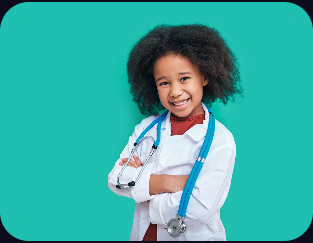
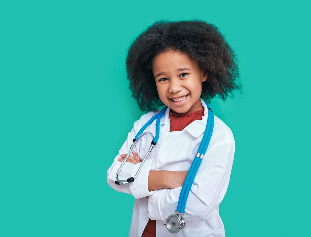
поправил стили

diff --git a/src/components/MainPage/MainPage.module.less b/src/components/MainPage/MainPage.module.less
@@ -1,3 +1,9 @@
+body {
+  margin: 0;
+  padding: 0;
+  box-sizing: border-box;
+}
+
 .background-3d {
   position: absolute;
   top: 0;
@@ -10,9 +16,8 @@
 
 .pediatric-landing {
   min-height: 100vh;
-  background: #13132a;
+  background: #e5e5f8;
   padding: 24px;
-  box-sizing: border-box;
 }
 
 .pediatric-grid {
@@ -25,21 +30,16 @@
 }
 
 .pediatric-main-card {
-  background: #18183a;
+  background: #5e5ebd;
   border-radius: 32px;
-  padding: 48px 40px;
+  padding: 25px 25px;
   color: #fff;
-  grid-row: 1 / 2;
-  grid-column: 1 / 2;
   display: flex;
   flex-direction: column;
-  justify-content: center;
 }
 
 .pediatric-title {
   font-size: 3rem;
-  font-weight: 700;
-  margin-bottom: 32px;
   line-height: 1.1;
 }
 
@@ -60,48 +60,40 @@
   cursor: pointer;
   transition: background 0.2s;
 }
+
 .pediatric-btn:hover {
   background: #5548c8;
 }
 
 .pediatric-main-img {
-  background: #fff;
   border-radius: 32px;
   grid-row: 1 / 3;
-  grid-column: 2 / 3;
-  display: flex;
-  align-items: center;
-  justify-content: center;
-  overflow: hidden;
 }
+
 .pediatric-main-img img {
   width: 100%;
   height: auto;
-  object-fit: cover;
+  object-fit: contain;
   border-radius: 32px;
 }
 
 .pediatric-card {
   border-radius: 32px;
   overflow: hidden;
-  display: flex;
-  align-items: center;
-  justify-content: center;
 }
+
 .pediatric-card1 {
-  background: #1ed6b6;
   grid-row: 2 / 3;
   grid-column: 1 / 2;
 }
+
 .pediatric-card2 {
-  background: #f7b6b6;
   grid-row: 2 / 3;
   grid-column: 1 / 2;
-  margin-left: 220px; // подвиньте по макету, либо используйте grid-area
+  margin-left: 220px;
 }
+
 .pediatric-card img {
-  width: 100%;
-  height: 100%;
   object-fit: cover;
 }
 

diff --git a/src/components/MainPage/MainPage.tsx b/src/components/MainPage/MainPage.tsx
@@ -5,18 +5,16 @@ import './MainPage.module.less';
 import mainImg from '../../assets/main-kid.png';
 import card1 from '../../assets/card1.png';
 import card2 from '../../assets/card2.png';
-import {Model2} from "../Model1/Model1";
+import {ModelBb8} from "../Model1";
 
 const Canva = () => {
   return (
-    <div
-      className="background-3d"
-    >
+    <div className="background-3d">
       <Canvas camera={{ position: [5, 9, 10], fov: 45 }}>
         <directionalLight position={[0, 10, 0]} intensity={0.8} />
         <Suspense fallback={null}>
           {/* <Model1 /> */}
-          <Model2 />
+          <ModelBb8 />
         </Suspense>
         <OrbitControls enablePan={false} />
       </Canvas>
@@ -49,5 +47,3 @@ export const MainPage: React.FC = () => {
     </div>
   );
 };
-
-export default MainPage;

diff --git a/src/components/Model1/Model1.tsx b/src/components/Model1/Model1.tsx
@@ -19,7 +19,7 @@ export const Model1 = () => {
 };
 
 
-export const Model2 = () => {
+export const ModelBb8 = () => {
     const group = useRef<Group>(null);
     const { scene, animations } = useGLTF('models/bb8.glb');
     const { actions } = useAnimations(animations, group);

diff --git a/src/components/Model1/index.ts b/src/components/Model1/index.ts
@@ -1,2 +1,2 @@
-export {Model2} from './Model1';
+export {ModelBb8} from './Model1';
 export {Model1} from './Model1';
